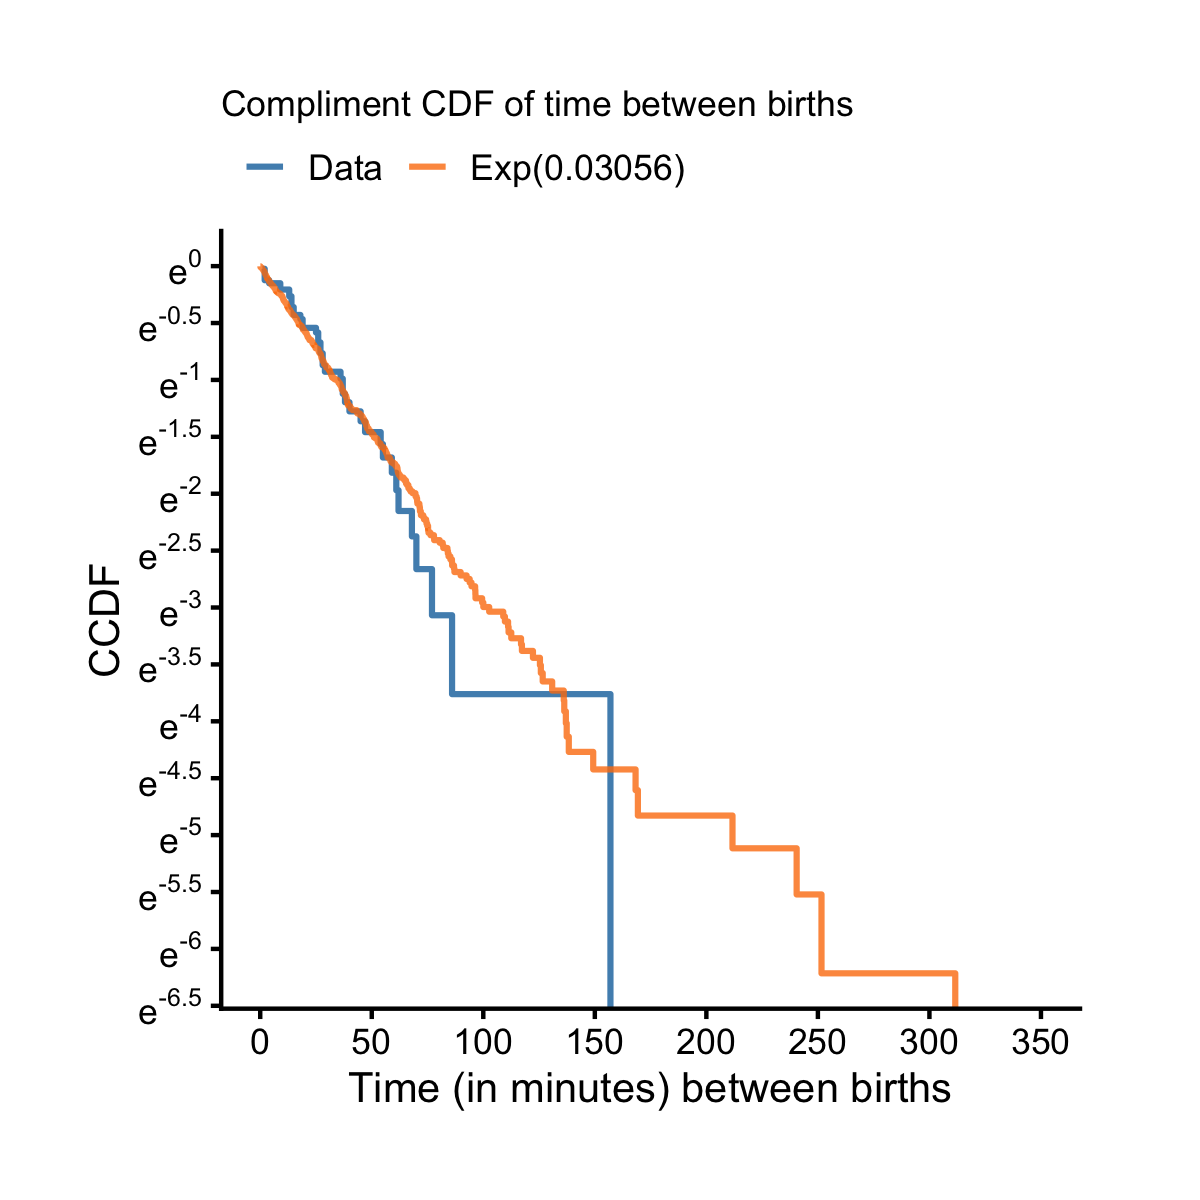
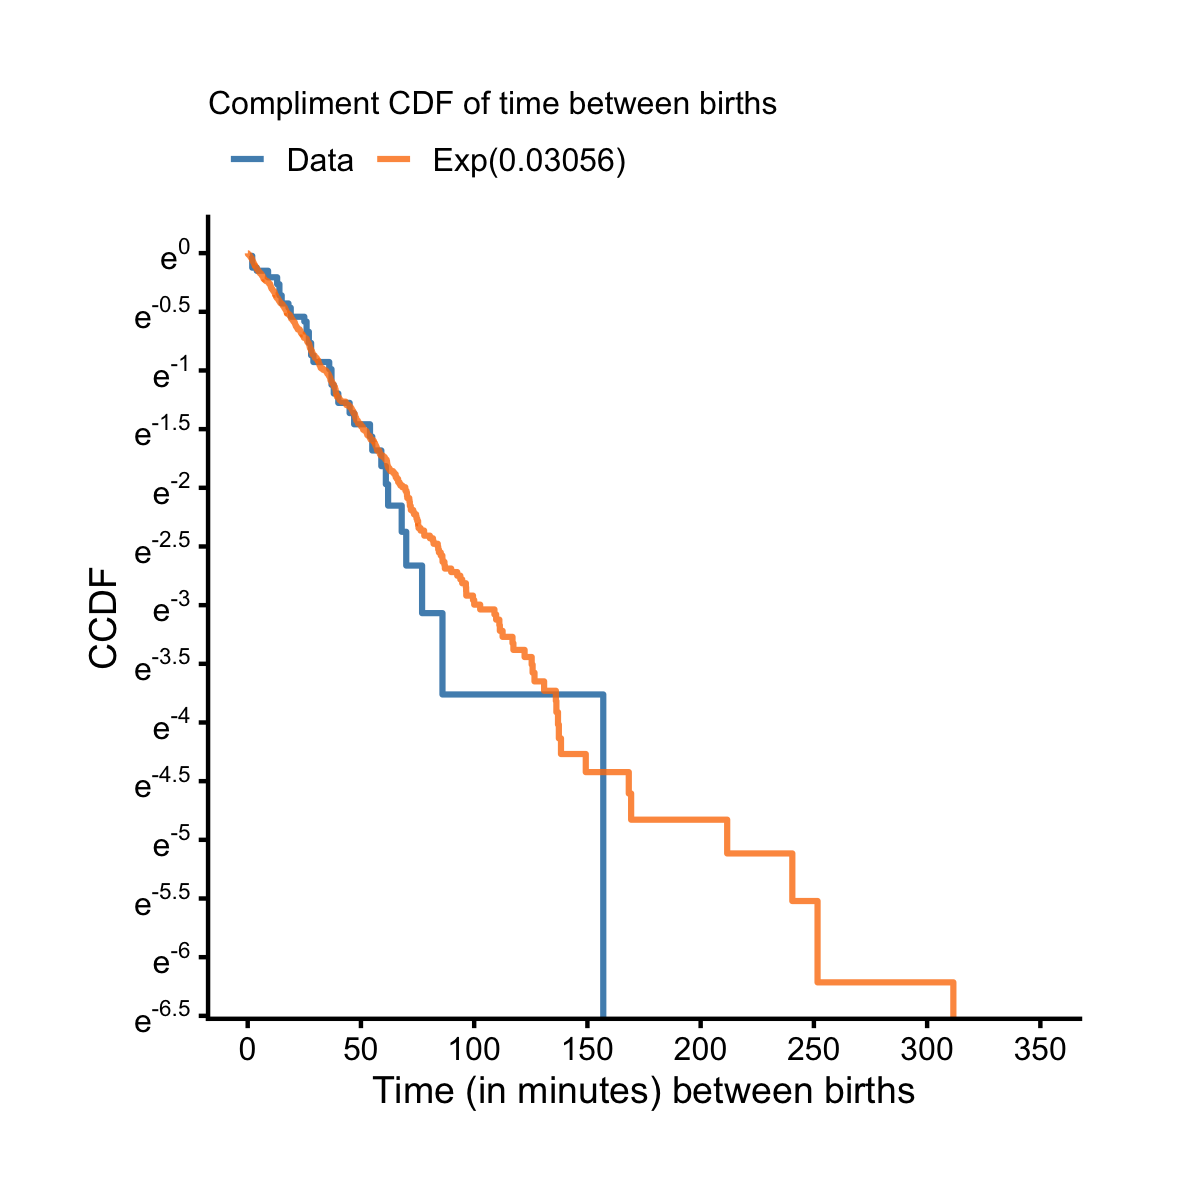
no message

Changed region(s): [[0.0617, 0.185, 0.8942, 0.925], [0.185, 0.0617, 0.7092, 0.1542]]

diff --git a/manuscript/02-04-cdfplot.md b/manuscript/02-04-cdfplot.md
@@ -10,7 +10,7 @@ set.seed(123923)
 df = rbind(data.frame(x = rnorm(100), type = 'Norm(0, 1)'),
            data.frame(x = rt(100, df = 3), type = 't(3)'))
 plt = mk_cdfplot(df)
-plt('x', colorby='type', add_vline_median = TRUE, font_size = 10, 
+plt('x', colorby='type', add_vline_median = TRUE, font_size = 9, 
     legend_title = NULL, legend_pos = 'top', pad = FALSE) %>% 
         square_fig()
 ```
@@ -33,7 +33,7 @@ dat = rbind(births %>% filter(!is.na(diffs)) %>%
             )
 # plot CDFs of observed data and sample data from exponential model
 f = mk_cdfplot(dat)
-f("diffs", colorby = 'type', pad = F, font_size = 10, 
+f("diffs", colorby = 'type', pad = F, font_size = 9, 
   legend_title = NULL, legend_pos = 'top',
   add_vline_median = T, show_label_median = F) %>%
         scale_axis(axis = 'x', nticks = 10) %>%
@@ -47,7 +47,7 @@ We see the blue (data) and the orange (model) curves overlap up to about 60 minu
 
 ```r
 f("diffs", complement = TRUE, colorby = 'type', pad = FALSE, 
-  legend_title = NULL, legend_pos = 'top', font_size = 10, 
+  legend_title = NULL, legend_pos = 'top', font_size = 9, 
   add_vline_median = T, show_label_median = F) %>%
         scale_axis(axis = 'y', scale = 'log') %>%
         scale_axis(axis = 'x', nticks = 10) %>%
